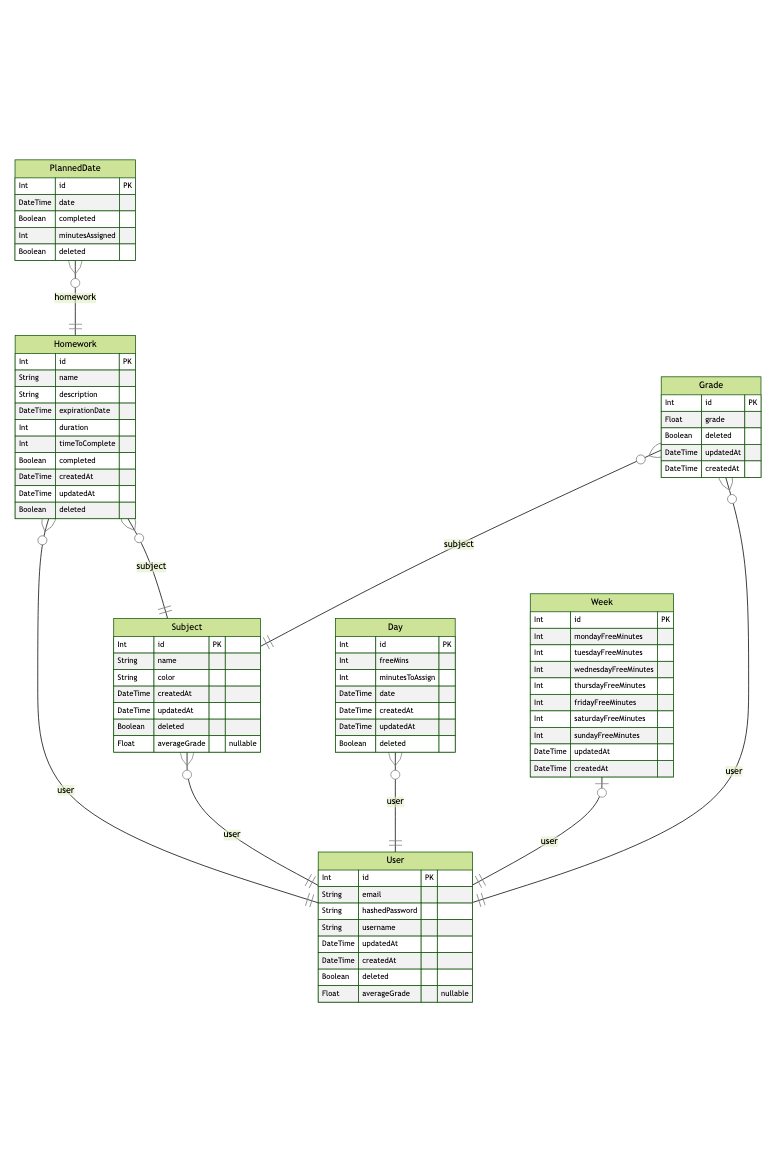
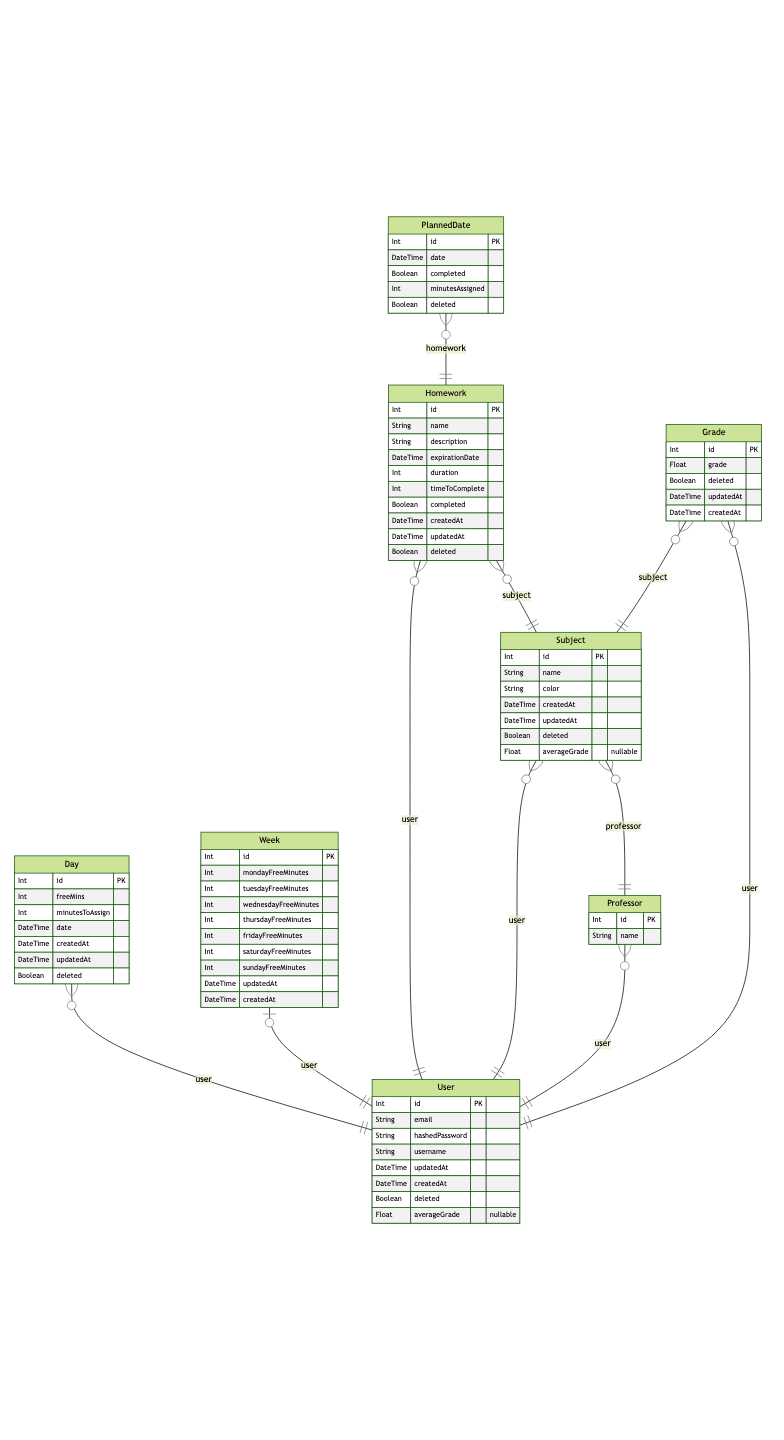
get professor working, post professor only works with one professor for user

diff --git a/backend/src/routes/auth.ts b/backend/src/routes/auth.ts
@@ -1,15 +1,15 @@
-import { Router } from 'express';
-import { body } from 'express-validator';
-import { isAuthenticated, validateExpressValidation } from '../middlewares';
-import { signup, login, getUserInfo, validateToken } from '../controllers/auth';
+import { Router } from "express";
+import { body } from "express-validator";
+import { isAuthenticated, validateExpressValidation } from "../middlewares";
+import { signup, login, getUserInfo, validateToken } from "../controllers/auth";
 
 const router = Router();
 
 router.post(
-  '/login',
+  "/login",
   [
-    body('email', 'please enter a valid email').trim().isEmail(),
-    body('password', 'please enter a password').trim().notEmpty(),
+    body("email", "please enter a valid email").trim().isEmail(),
+    body("password", "please enter a password").trim().notEmpty(),
     // .isStrongPassword(),
   ],
   validateExpressValidation,
@@ -17,13 +17,13 @@ router.post(
 );
 
 router.post(
-  '/signup',
+  "/signup",
   [
-    body('email', 'please enter a valid email').trim().isEmail(),
-    body('username', 'please enter a username with at least 5 characters')
+    body("email", "please enter a valid email").trim().isEmail(),
+    body("username", "please enter a username with at least 5 characters")
       .trim()
       .isLength({ min: 5 }),
-    body('password', 'please enter a stronger password')
+    body("password", "please enter a stronger password")
       .trim()
       .isStrongPassword(),
   ],
@@ -31,6 +31,6 @@ router.post(
   signup
 );
 
-router.get('/validateToken', validateToken);
-router.get('/userInfo', isAuthenticated, getUserInfo);
+router.get("/validateToken", validateToken);
+router.get("/userInfo", isAuthenticated, getUserInfo);
 export default router;

diff --git a/backend/src/controllers/professor.ts b/backend/src/controllers/professor.ts
@@ -1,0 +1,41 @@
+import { Request, Response } from "express";
+import { throwResponseError } from "../utilities";
+import { prisma } from "../app";
+
+export const createProfessor = async (req: Request, res: Response) => {
+  const { name } = req.body;
+  try {
+    const professor = await prisma.professor.create({
+      data: {
+        name: name,
+        userId: +req.userId!,
+      },
+    });
+    res.json(professor);
+  } catch (err) {
+    console.log(err);
+    throwResponseError("An error has occurred creating a professor", 400, res);
+  }
+};
+
+export const getProfessor = async (req: Request, res: Response) => {
+  const { professorId } = req.params;
+  try {
+    const professor = await prisma.professor.findFirst({
+      where: {
+        id: +professorId,
+        userId: +req.userId!,
+      },
+      select: {
+        id: true,
+        name: true,
+        subject: true,
+      },
+    });
+    console.log(professor);
+    res.json(professor);
+  } catch (err) {
+    console.log(err);
+    throwResponseError("An error has occurred finding the professor", 400, res);
+  }
+};

diff --git a/backend/src/controllers/subjects.ts b/backend/src/controllers/subjects.ts
@@ -1,12 +1,8 @@
-import { NextFunction, Request, Response } from 'express';
-import { throwResponseError } from '../utilities';
-import { prisma } from '../app';
+import { Request, Response } from "express";
+import { throwResponseError } from "../utilities";
+import { prisma } from "../app";
 
-export const getAllSubjects = async (
-  req: Request,
-  res: Response,
-  next: NextFunction
-) => {
+export const getAllSubjects = async (req: Request, res: Response) => {
   const { userId } = req;
   try {
     const subjects = await prisma.subject.findMany({
@@ -21,15 +17,11 @@ export const getAllSubjects = async (
     });
     res.json(subjects);
   } catch {
-    throwResponseError('unable to fetch subjects', 400, res);
+    throwResponseError("unable to fetch subjects", 400, res);
   }
 };
 
-export const createSubject = async (
-  req: Request,
-  res: Response,
-  next: NextFunction
-) => {
+export const createSubject = async (req: Request, res: Response) => {
   const { userId } = req;
   const { name, color } = req.body;
   try {

diff --git a/backend/src/controllers/auth.ts b/backend/src/controllers/auth.ts
@@ -1,4 +1,4 @@
-import { Request, Response, NextFunction } from "express";
+import { Request, Response } from "express";
 import jwt, { JwtPayload } from "jsonwebtoken";
 import bcrypt from "bcrypt";
 
@@ -13,8 +13,7 @@ export const signup = async (
     password: string;
     username: string;
   }>,
-  res: Response,
-  next: NextFunction
+  res: Response
 ) => {
   try {
     const email = req.body.email;
@@ -100,11 +99,7 @@ export const login = async (
   }
 };
 
-export const getUserInfo = async (
-  req: Request,
-  res: Response,
-  next: NextFunction
-) => {
+export const getUserInfo = async (req: Request, res: Response) => {
   try {
     const user = await prisma.user.findFirst({
       where: {

diff --git a/backend/src/routes/professor.ts b/backend/src/routes/professor.ts
@@ -1,0 +1,27 @@
+import { Router } from "express";
+import { body, param } from "express-validator";
+import { isAuthenticated, validateExpressValidation } from "../middlewares";
+import { createProfessor, getProfessor } from "../controllers/professor";
+
+const router = Router();
+
+router.post(
+  "/create",
+  isAuthenticated,
+  [body("name", "please insert a name").notEmpty()],
+  validateExpressValidation,
+  createProfessor
+);
+
+router.get(
+  "/get/:professorId",
+  isAuthenticated,
+  [
+    param("professorId", "please enter a valid professorId")
+      .isNumeric()
+      .notEmpty(),
+  ],
+  validateExpressValidation,
+  getProfessor
+);
+export default router;

diff --git a/backend/src/app.ts b/backend/src/app.ts
@@ -10,6 +10,7 @@ import calendarRoutes from "./routes/calendar";
 import subjectRoutes from "./routes/subject";
 import plannedDateRoutes from "./routes/plannedDate";
 import gradeRoutes from "./routes/grade";
+import professorRoutes from "./routes/professor";
 
 import { ErrorResponse } from "./models";
 
@@ -36,6 +37,7 @@ app.use("/calendar", calendarRoutes);
 app.use("/subject", subjectRoutes);
 app.use("/plannedDate", plannedDateRoutes);
 app.use("/grade", gradeRoutes);
+app.use("/professor", professorRoutes);
 
 app.get("/", (_req, res, _next) => {
   res.json();

diff --git a/mobile/src/screens/AddGradeModal.tsx b/mobile/src/screens/AddGradeModal.tsx
@@ -54,8 +54,6 @@ const AddHomeworkModal = ({ navigation }: AddGradeStackScreenProps<"Root">) => {
     },
   ]);
 
-  //console.log(gradeHasError);
-
   const colorScheme = useColorScheme();
   const { errorColor, placeHolderColor } = Colors[colorScheme];
 

diff --git a/backend/src/utilities.ts b/backend/src/utilities.ts
@@ -1,5 +1,5 @@
-import { ErrorResponse } from './models';
-import { Response } from 'express';
+import { ErrorResponse } from "./models";
+import { Response } from "express";
 
 export const throwResponseError = (
   message: string,
